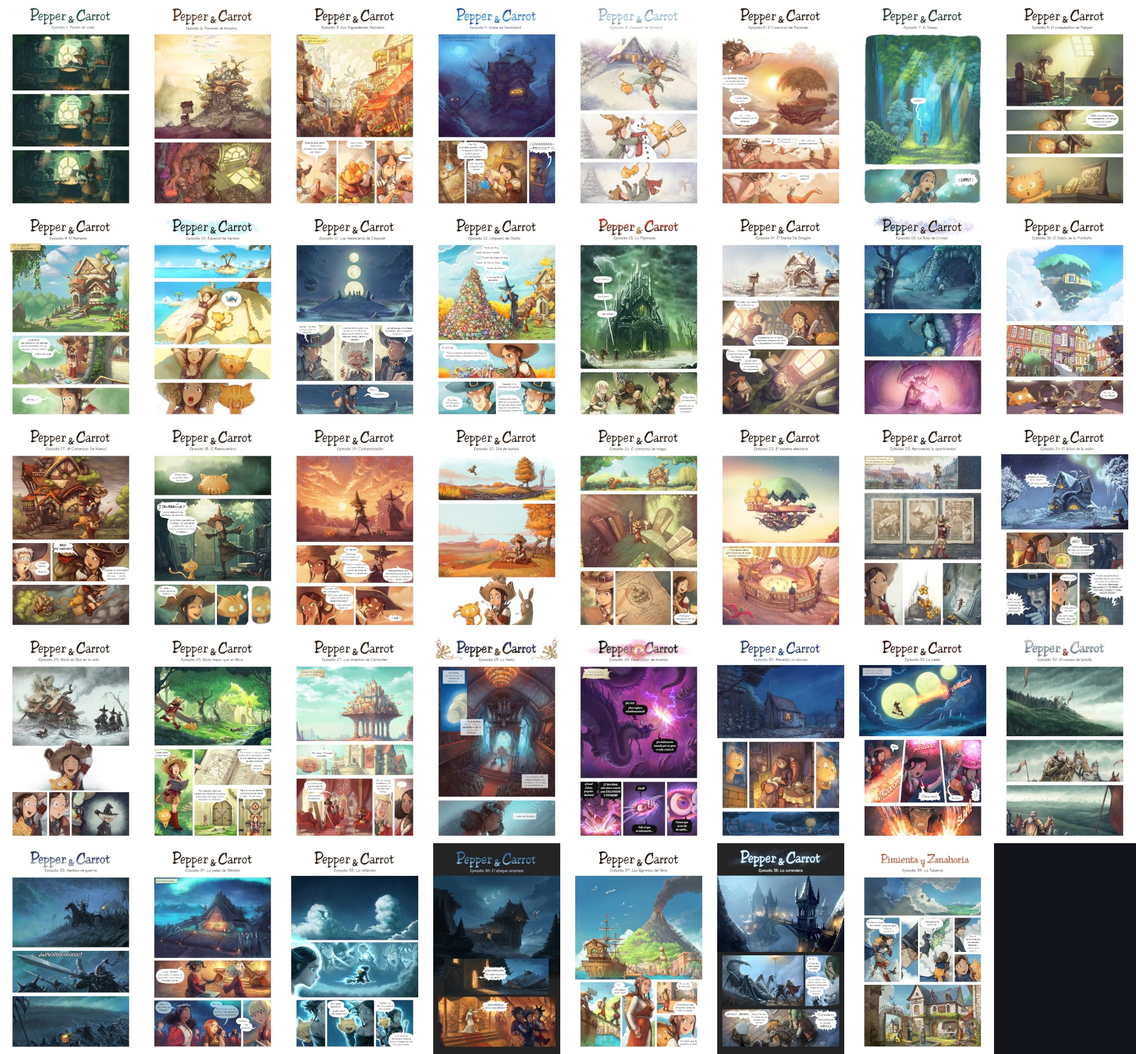
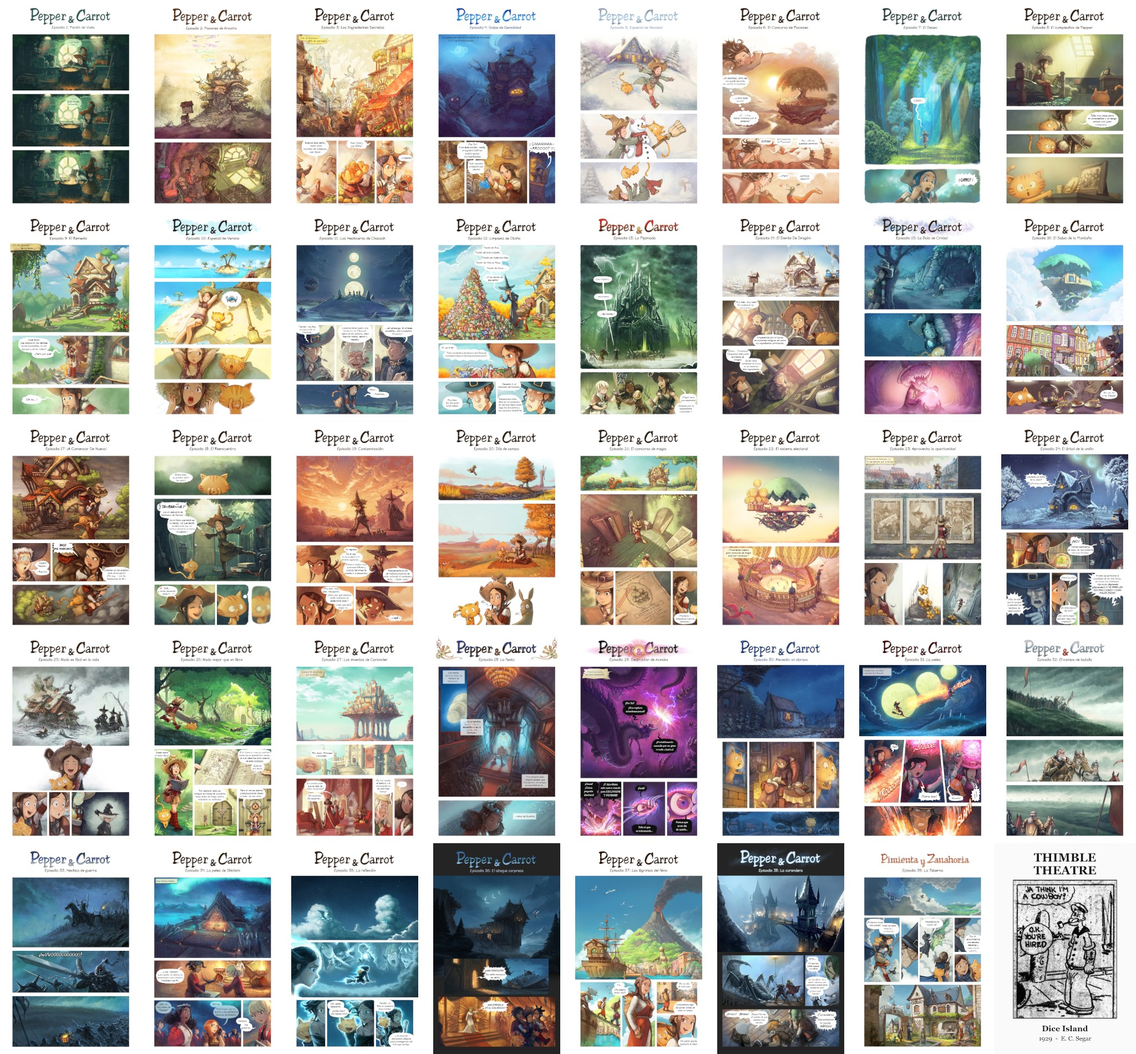
Add Thimble Theatre: Dice Island (1929)
E. C. Segar's daily strips from January 17 to June 29, 1929, the first
adventure with Popeye, two strips per page in a new Classic Strips
category. Public domain; scans of The Washington Times from Chronicling
America (Library of Congress). The README credits the source and lists
the changes.

Changed region(s): [[0.875, 0.7763, 1.0, 1.0]]

diff --git a/README.md b/README.md
@@ -53,3 +53,11 @@ Episodios 1 a 38 en la traducción al español de México; el episodio 39 en la 
 | 39 | [Episodio 39: La Taberna](https://www.peppercarrot.com/es/webcomic/ep39_The-Tavern.html) | español (España) | David Revoy | Raúl García |
 
 Pepper&Carrot prohíbe crear obras derivadas con inteligencia artificial generativa; esta copia solo reacomoda las páginas para leerlas.
+
+## Thimble Theatre: Dice Island (1929)
+
+Tiras diarias de **Thimble Theatre** de [E. C. Segar](https://es.wikipedia.org/wiki/E._C._Segar) (King Features Syndicate), del 17 de enero al 29 de junio de 1929: la primera aventura en la que aparece Popeye. Son de **dominio público** en Estados Unidos (obras publicadas hace más de 95 años) y en México (Segar murió en 1938). Popeye es marca registrada de King Features Syndicate; este catálogo no está afiliado ni respaldado por ellos.
+
+**Fuente:** escaneos de *The Washington Times* (Washington, D.C.) en [Chronicling America](https://chroniclingamerica.loc.gov/lccn/sn84026749/), Library of Congress. La Biblioteca considera que los periódicos de esa colección no tienen restricciones de derechos de autor conocidas.
+
+**Cambios:** cada tira se recortó de la página del periódico, se ajustaron los niveles de gris del microfilm y se juntaron dos tiras por página. El dibujo y los textos no se modificaron. Falta la tira del 20 de junio de 1929, que no viene en el escaneo de ese día. La portada se hizo con un cuadro de la tira del 17 de enero de 1929.
